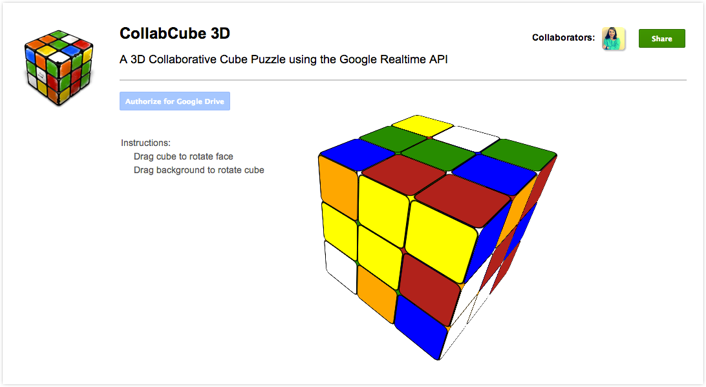
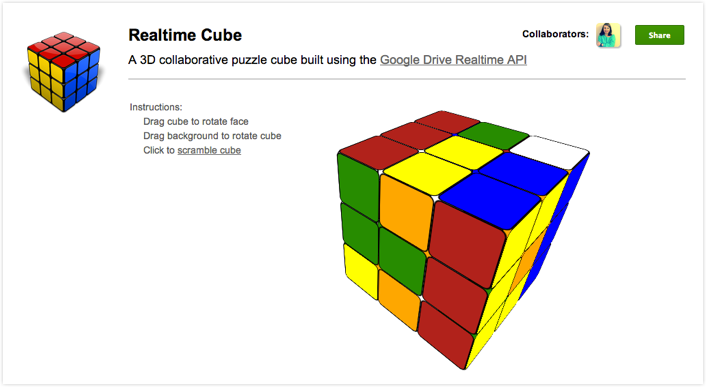
Renaming the project.

Changed region(s): [[0.4363, 0.2791, 0.8414, 0.9612], [0.0312, 0.062, 0.966, 0.4651], [0.7167, 0.062, 0.9972, 0.155]]

diff --git a/README.md b/README.md
@@ -1,14 +1,14 @@
-# CollabCube 3D
+# Realtime Cube
 
-[![CollabCube 3D Screenshot](https://github.com/googledrive/realtime-cube/raw/master/screenshot.png)](https://realtime-cube.appspot.com/)
+[![Realtime Cube Screenshot](https://github.com/googledrive/realtime-cube/raw/master/screenshot.png)](https://realtime-cube.appspot.com/)
 
 ## Overview
 
-**CollabCube 3D**, is an online game demonstrating usage of the [Google Drive Realtime API](https://developers.google.com/drive/realtime).
+**Realtime Cube**, is an online game demonstrating usage of the [Google Drive Realtime API](https://developers.google.com/drive/realtime).
 
-CollabCube 3D allows you to play to a well known colored cube puzzle collaboratively.
+Realtime Cube allows you to play to a well known colored cube puzzle collaboratively.
 
-You can try out CollabCube 3D on its [live instance](https://realtime-cube.appspot.com).
+You can try out Realtime Cube on its [live instance](https://realtime-cube.appspot.com).
 
 ## Installation and Configuration
 
@@ -23,7 +23,7 @@ First, you need to activate the Drive API for your app. You can do it by configu
 - Create an API project in the [Google APIs Console](https://developers.google.com/console).
 - Select the "Services" tab and enable the Drive API.
 - Select the "API Access" tab in your API project, and click "Create an OAuth 2.0 client ID".
-- In the Branding Information section, provide a name for your application (e.g. "CollabCube 3D"), and click Next. Providing a product logo is optional.
+- In the Branding Information section, provide a name for your application (e.g. "Realtime Cube"), and click Next. Providing a product logo is optional.
 - In the Client ID Settings section, do the following:
   - Select Web application for the Application type
   - Click the more options link next to the heading, Your site or hostname.
@@ -36,7 +36,7 @@ First, you need to activate the Drive API for your app. You can do it by configu
 
 ### Setup your App information
 
-You should now have your **Client ID** and your **App ID**. In `/collabcube.js` change the `appId` and the `clientId` in the `realTimeOptions` object.
+You should now have your **Client ID** and your **App ID**. In `/realtimecube.js` change the `appId` and the `clientId` in the `realTimeOptions` object.
 
 ### Deploy, run that's it!
 
